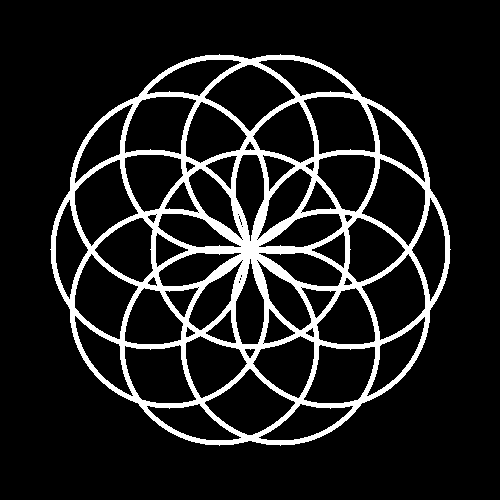
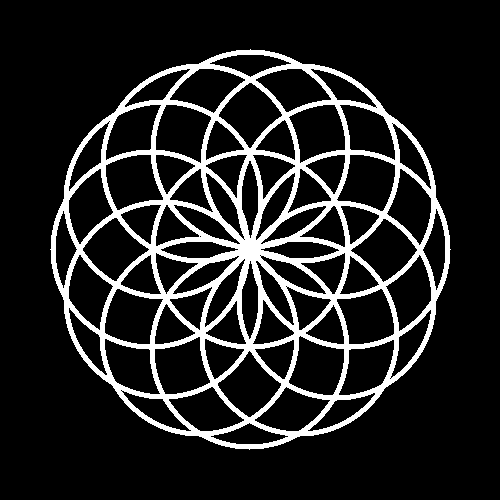
convolution marche pas

Changed region(s): [[0.12, 0.09, 0.87, 0.9]]

diff --git a/src/main.cpp b/src/main.cpp
@@ -228,6 +228,17 @@ void fractale(){
     image.save("output/fractale.png");
 }
 
+void convolution(sil::Image& image){
+    sil::Image new_image{500/*width*/, 500/*height*/};
+    for (int x{1}; x < image.width()-1; x++){
+        for (int y{1}; y < image.height()-1; y++){
+            new_image.pixel(x-1, y-1) = (image.pixel(x-1, y-1)/9.f + image.pixel(x-1, y)/9.f + image.pixel(x-1, y+1)/9.f +
+                                        image.pixel(x, y+1)/9.f + image.pixel(x+1, y+1)/9.f + image.pixel(x+1, y)/9.f  +
+                                        image.pixel(x+1, y-1)/9.f  + image.pixel(x, y-1)/9.f + image.pixel(x, y)/9.f) /9.f; 
+        }
+    }
+}
+
 int main()
 {
     set_random_seed(1);
@@ -327,7 +338,7 @@ int main()
     // //EX14
     // {
     //     sil::Image image{500/*width*/, 500/*height*/};
-    //     rosace(image, 100, 10);
+    //     rosace(image, 100, 12);
     //     image.save("output/rosace.png");
     // }
 
@@ -362,5 +373,12 @@ int main()
     // {
     //     fractale();
     // }
+
+    //EX20
+    {
+        sil::Image image{"images/logo.png"};
+        convolution(image);
+        image.save("output/convolution.png");
+    }
 
 }
